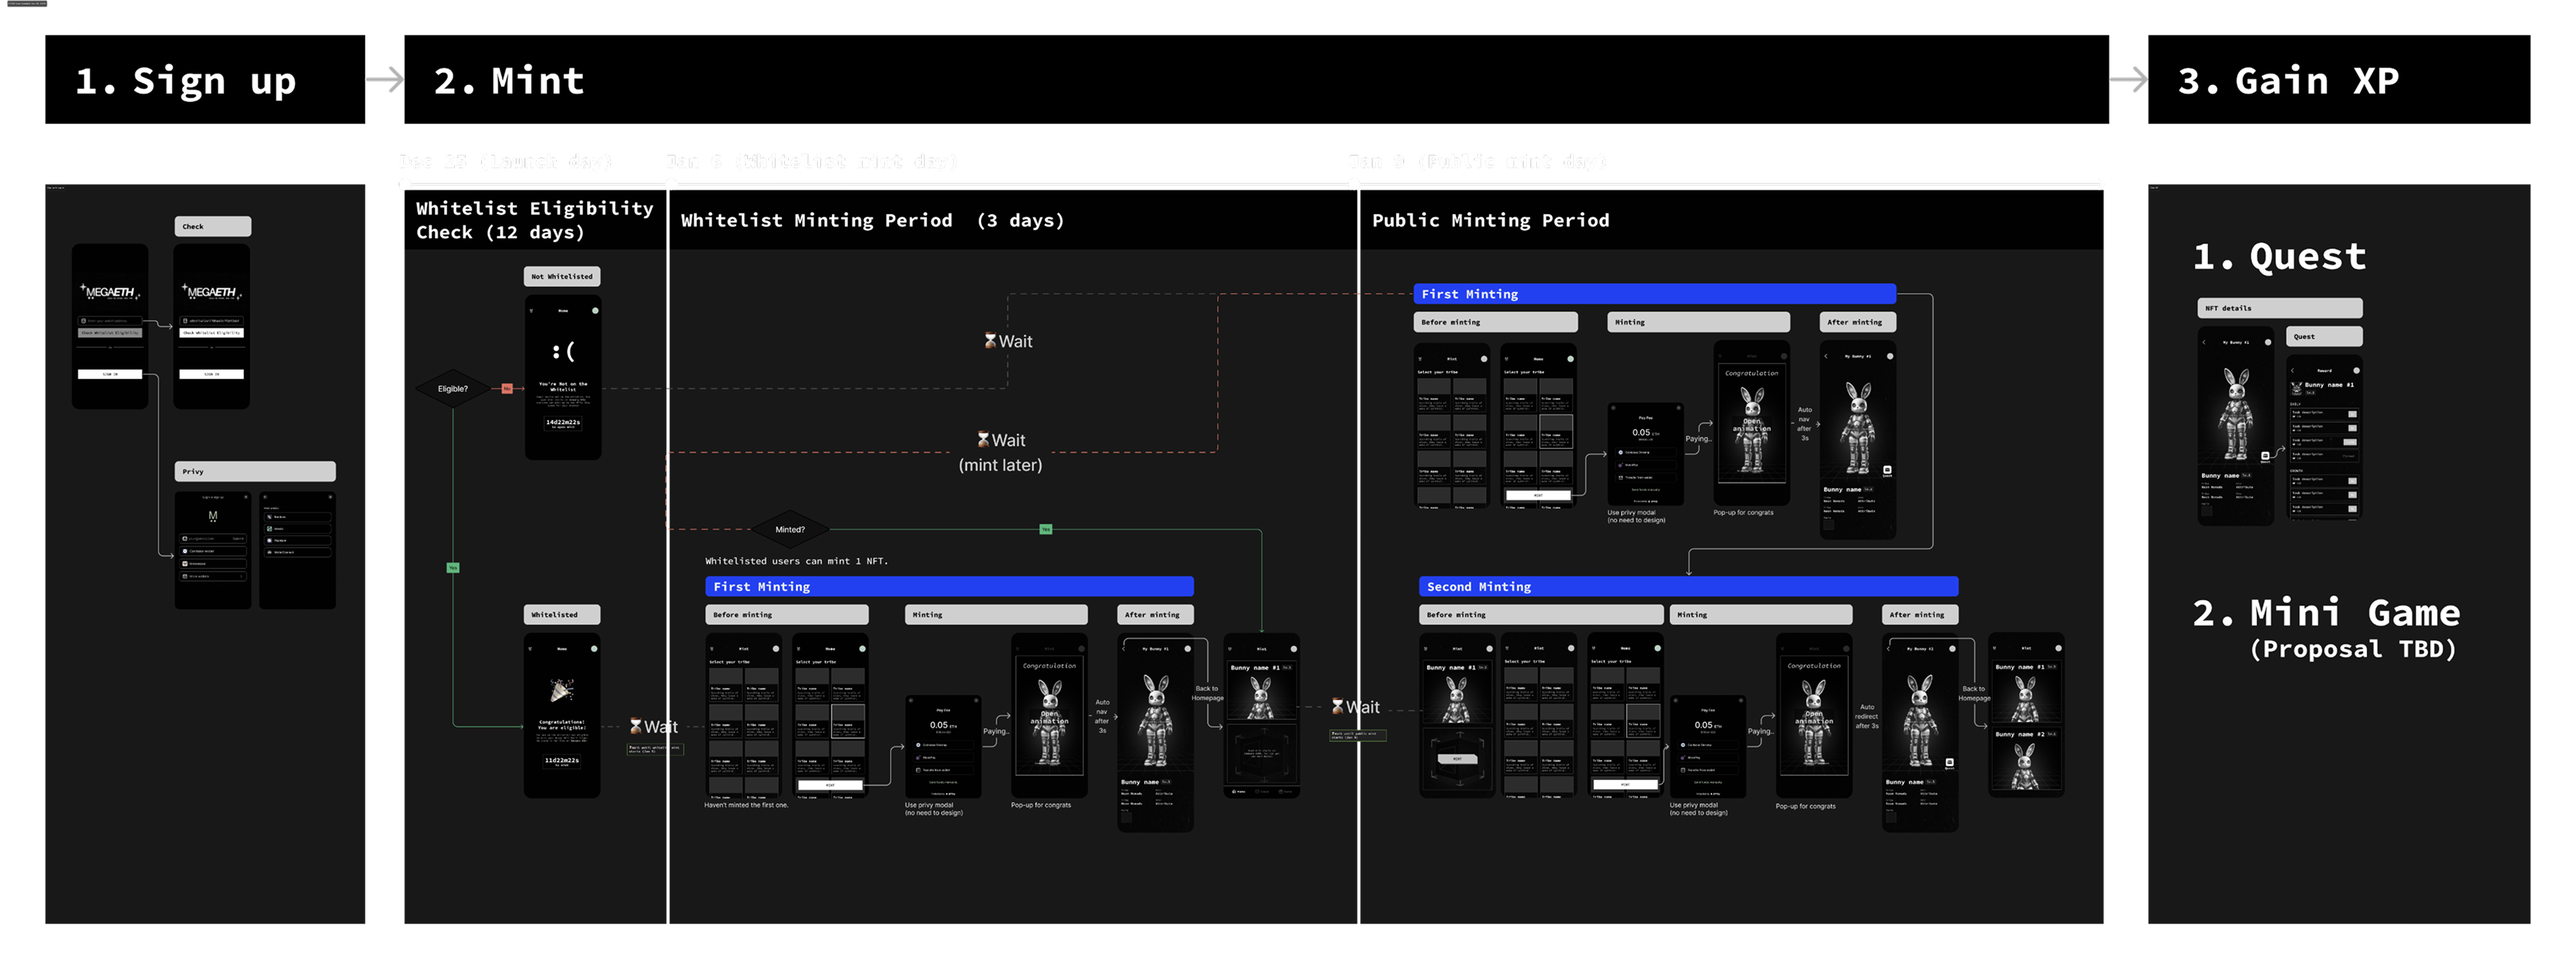
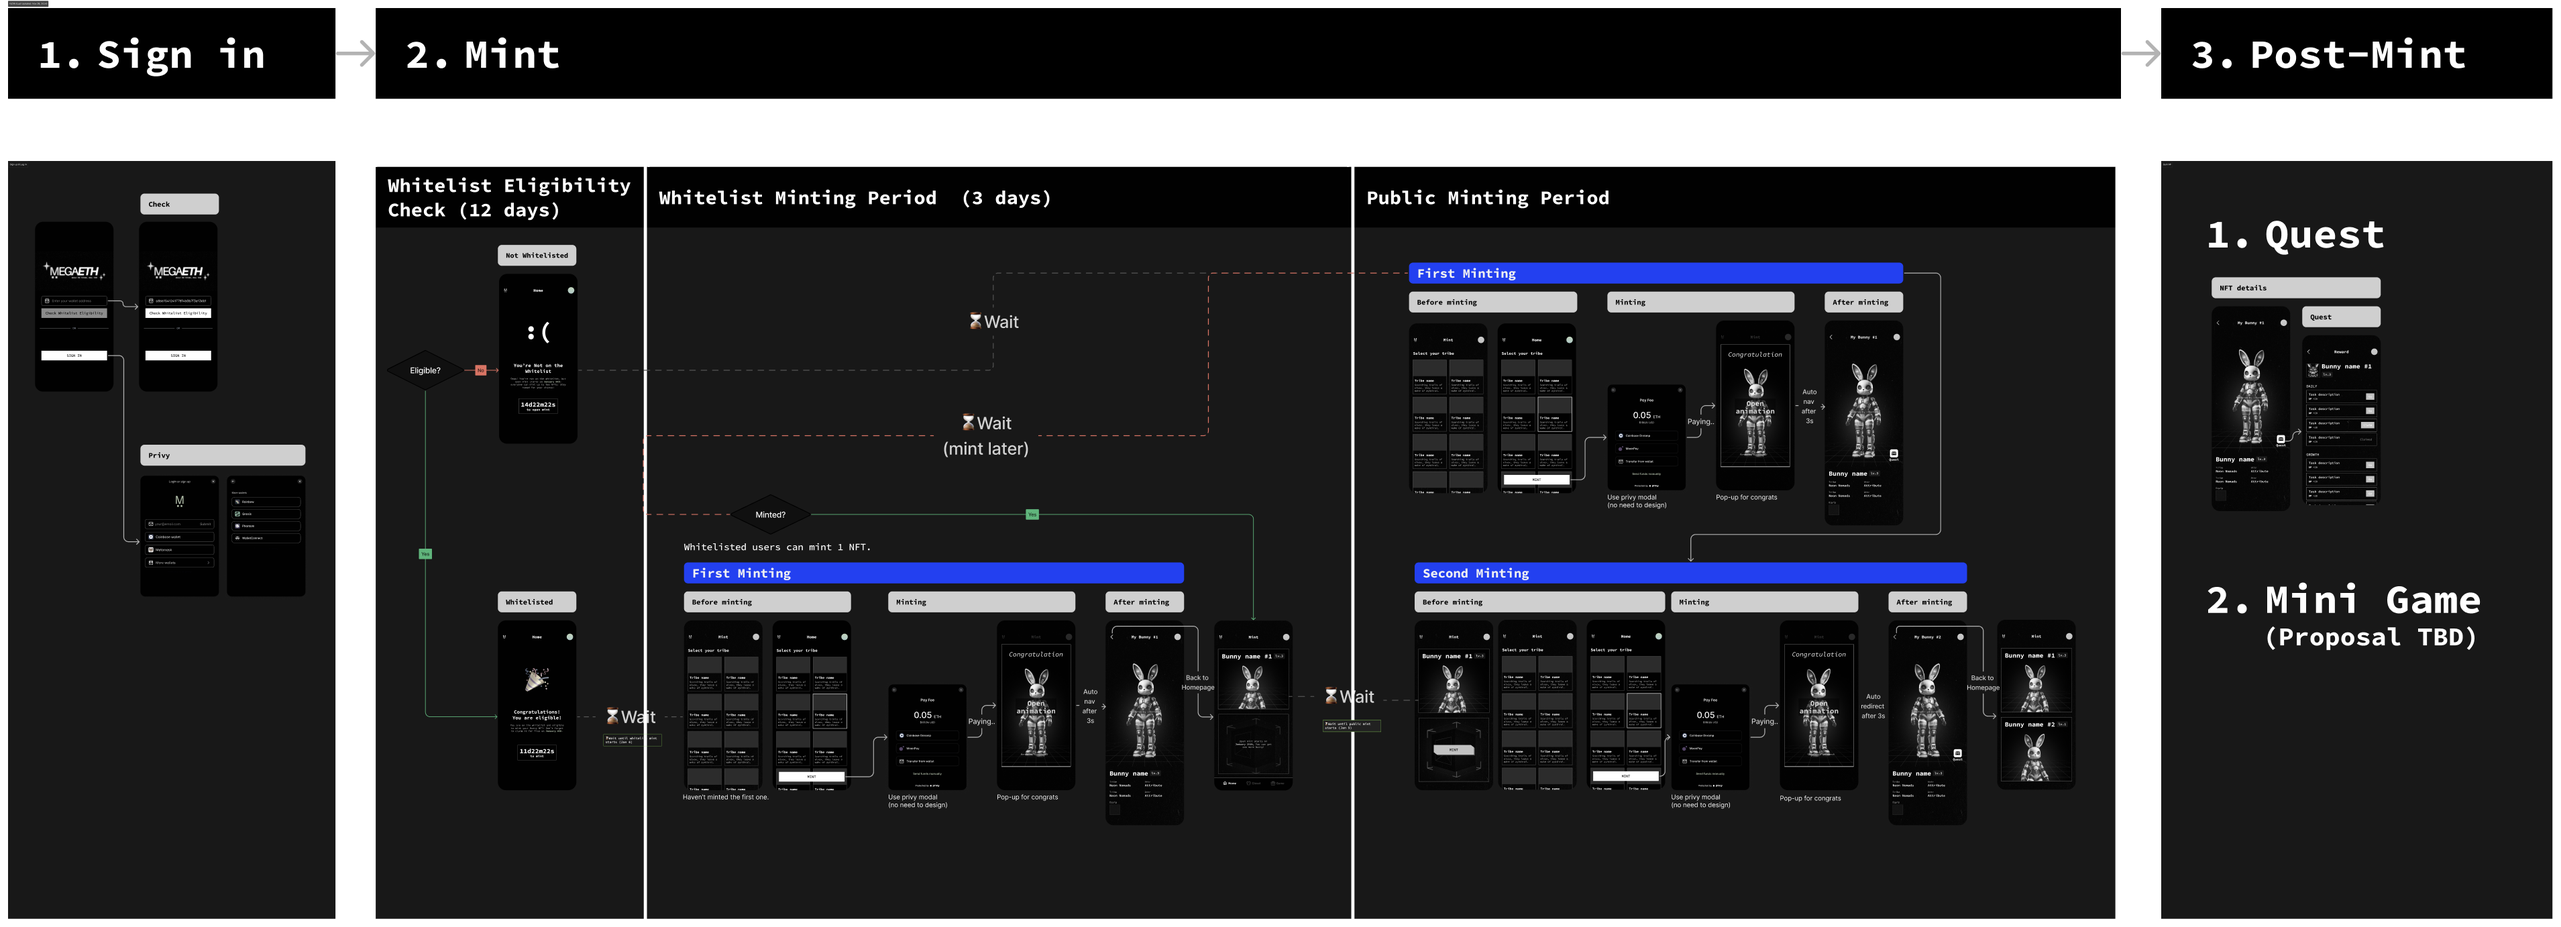
out NFTs

diff --git a/src/pages/Work2.jsx b/src/pages/Work2.jsx
@@ -17,6 +17,25 @@ export default function Work2() {
     "feature",
     "takeaways",
   ];
+
+  const tribeNames = [
+    "Witch",
+    "Innocent",
+    "Boss",
+    "Pilot",
+    "Yob",
+    "Scientist",
+    "Play Boy",
+    "Outlaw",
+    "Mad",
+    "Musician",
+    "Muscular",
+    "Executor",
+    "Soldier",
+    "Femme fatale",
+    "Sage",
+    "Samurai",
+  ];
   return (
     <div className="min-h-screen text-white flex flex-col">
       <SectionNav sections={page2Sections} />
@@ -29,7 +48,7 @@ export default function Work2() {
           <span>Hologram, 2024</span>
           <h1 className="mt-3 text-4xl">NFT Minting Platform</h1>
         </div>
-        <div className="relative w-[620px] h-[646px]">
+        <div className="relative w-full md:w-[620px] h-[646px]">
           {/* 第一張圖片，放在左上角 */}
           <HoverImage
             src="/images/work2/overview/preview1.png"
@@ -105,87 +124,103 @@ export default function Work2() {
       {/* Divider */}
       <div className="w-full lg:border-t border-zinc-800"></div>
       {/* Background Section */}
-      <div
-        id="background"
-        className="w-full md:max-w-6xl mx-auto py-36 md:px-5 px-3"
-      >
-        <TitleSection
-          title="Background"
-          description="A PWA developed in collaboration with the MegaETH team, launching a 10K NFT fluffle (rabbit) collection featuring diverse art variations.
+      <div id="background" className="w-full mx-auto py-36 md:px-5 px-3">
+        <div className="w-full md:max-w-6xl mx-auto">
+          <TitleSection
+            title="Background"
+            description="A PWA developed in collaboration with the MegaETH team, launching a 10K NFT fluffle (rabbit) collection featuring diverse art variations.
 Our art team designed and created the fluffle assets, while I handled the UI/UX design of the PWA and collaborated closely with engineers for implementation."
-          icon="bg"
-        />
-        <div className="max-w-6xl mx-auto border-t border-zinc-800 my-16"></div>
-        <h2 className="text-4xl">What is 10K NFT Project?</h2>
+            icon="bg"
+          />
+          <div className="max-w-6xl mx-auto border-t border-zinc-800 my-16"></div>
+          <h2 className="text-4xl">What is 10K NFT Project?</h2>
 
-        <h2 className="text-3xl mt-14">Key Features</h2>
-        <p className="text-zinc-300 max-w-3xl mt-3">
-          Excitement Factor: Blind-box style minting drives anticipation and
-          engagement. Simplified Process: One-click minting with Gas fee payment
-          for faster transaction
-        </p>
+          <h2 className="text-3xl mt-14">Key Features</h2>
+          <p className="text-zinc-300 max-w-3xl mt-3">
+            Excitement Factor: Blind-box style minting drives anticipation and
+            engagement. Simplified Process: One-click minting with Gas fee
+            payment for faster transaction
+          </p>
 
-        <h2 className="text-3xl mt-14">Market Success Examples</h2>
-        <div className="grid grid-cols-1 md:grid-cols-3 gap-6 max-w-6xl mx-auto mt-5">
-          {/* Card 1:   */}
-          <div className="flex flex-col p-6 gap-4 border border-zinc-700 rounded-2xl">
-            <div className="flex flex-row items-center gap-3">
+          <h2 className="text-3xl mt-14">Market Success Examples</h2>
+          <div className="grid grid-cols-1 md:grid-cols-3 gap-6 max-w-6xl mx-auto mt-5">
+            {/* Card 1:   */}
+            <div className="flex flex-col p-6 gap-4 border border-zinc-700 rounded-2xl">
+              <div className="flex flex-row items-center gap-3">
+                <SmartImage
+                  src="/images/work2/background/BAYC-logo.png"
+                  alt="BAYC Logo"
+                  className="rounded-xl overflow-hidden w-[60px]"
+                />
+                <h3 className="">Bored Ape Yacht Club (BAYC)</h3>
+              </div>
               <SmartImage
-                src="/images/work2/background/BAYC-logo.png"
-                alt="BAYC Logo"
-                className="rounded-xl overflow-hidden w-[60px]"
+                src="/images/work2/background/BAYC-ex.png"
+                alt="BAYC Example"
+                className="rounded-xl overflow-hidden"
               />
-              <h3 className="">Bored Ape Yacht Club (BAYC)</h3>
             </div>
-            <SmartImage
-              src="/images/work2/background/BAYC-ex.png"
-              alt="BAYC Example"
-              className="rounded-xl overflow-hidden"
-            />
+
+            {/* Card 2:   */}
+            <div className="flex flex-col p-6 gap-4 border border-zinc-700 rounded-2xl">
+              <div className="flex flex-row items-center gap-3">
+                <SmartImage
+                  src="/images/work2/background/CryptoPunks-logo.png"
+                  alt="CryptoPunks Logo"
+                  className="rounded-xl overflow-hidden w-[60px]"
+                />
+                <h3 className="">CryptoPunks</h3>
+              </div>
+              <SmartImage
+                src="/images/work2/background/CryptoPunks-ex.png"
+                alt="CryptoPunks Example"
+                className="rounded-xl overflow-hidden"
+              />
+            </div>
+            {/* Card 3:   */}
+            <div className="flex flex-col p-6 gap-4 border border-zinc-700 rounded-2xl">
+              <div className="flex flex-row items-center gap-3">
+                <SmartImage
+                  src="/images/work2/background/coolcats-logo.png"
+                  alt="Cool Cats Logo"
+                  className="rounded-xl overflow-hidden w-[60px]"
+                />
+                <h3 className="">Cool Cats</h3>
+              </div>
+              <SmartImage
+                src="/images/work2/background/coolcats-ex.png"
+                alt="Cool Cats Example"
+                className="rounded-xl overflow-hidden"
+              />
+            </div>
           </div>
 
-          {/* Card 2:   */}
-          <div className="flex flex-col p-6 gap-4 border border-zinc-700 rounded-2xl">
-            <div className="flex flex-row items-center gap-3">
-              <SmartImage
-                src="/images/work2/background/CryptoPunks-logo.png"
-                alt="CryptoPunks Logo"
-                className="rounded-xl overflow-hidden w-[60px]"
-              />
-              <h3 className="">CryptoPunks</h3>
-            </div>
-            <SmartImage
-              src="/images/work2/background/CryptoPunks-ex.png"
-              alt="CryptoPunks Example"
-              className="rounded-xl overflow-hidden"
-            />
-          </div>
-          {/* Card 3:   */}
-          <div className="flex flex-col p-6 gap-4 border border-zinc-700 rounded-2xl">
-            <div className="flex flex-row items-center gap-3">
-              <SmartImage
-                src="/images/work2/background/coolcats-logo.png"
-                alt="Cool Cats Logo"
-                className="rounded-xl overflow-hidden w-[60px]"
-              />
-              <h3 className="">Cool Cats</h3>
-            </div>
-            <SmartImage
-              src="/images/work2/background/coolcats-ex.png"
-              alt="Cool Cats Example"
-              className="rounded-xl overflow-hidden"
-            />
-          </div>
+          <div className="max-w-6xl mx-auto border-t border-zinc-800 my-16"></div>
+          <h2 className="text-4xl">Our NFTs</h2>
+          <p className="text-zinc-300 max-w-3xl mt-3">
+            Our art team created 16 tribes, each with 157 unique variations.
+          </p>
         </div>
-
-        <div className="max-w-6xl mx-auto border-t border-zinc-800 my-16"></div>
-        <h2 className="text-4xl">Our NFTs</h2>
-        <p className="text-zinc-300 max-w-3xl mt-3">..</p>
-        <SmartImage
-          src="/images/work2/background/outNFTs.png"
-          alt="Our NFTs"
-          className=""
-        />
+        <div className="grid xl:grid-cols-8 lg:grid-cols-6 md:grid-cols-4 sm:grid-cols-2 gap-4 1max-w-[1600px] 1mx-auto">
+          {tribeNames.map((name, index) => (
+            <div key={index} className="relative mx-auto pr-[64px]">
+              {/* First image */}
+              <HoverImage
+                src={`/images/work2/background/Bunny-${index + 1}A.png`}
+                alt={`${name} A`}
+                className="block w-[100px] "
+              />
+              {/* Second image: using absolute positioning to stagger it */}
+              <HoverImage
+                src={`/images/work2/background/Bunny-${index + 1}B.png`}
+                alt={`${name} B`}
+                className="absolute w-[100px] top-[24px] left-[64px]"
+              />
+              {/* Display the name */}
+              <h3 className="text-center pr-2">{name}</h3>
+            </div>
+          ))}
+        </div>
       </div>
 
       {/* Divider */}
@@ -219,7 +254,7 @@ Our art team designed and created the fluffle assets, while I handled the UI/UX 
           <img
             src="/images/work2/wireframe.png"
             alt="wireframe"
-            className="h-[95vh] w-auto max-w-none m-[-20px]"
+            className="h-[95vh] w-auto max-w-none m-4"
           />
         </div>
       </div>
@@ -274,10 +309,10 @@ Our art team designed and created the fluffle assets, while I handled the UI/UX 
           <TitleSection title="Key Features" description="" icon="highlight" />
         </div>
 
-        <div className="md:max-w-2xl w-full space-y-3 text-center mx-auto">
+        <div className="md:max-w-2xl w-full space-y-3 text-center mx-auto mt-12">
           <span className="uppercase text-2xl">1</span>
           <h2 className="text-5xl md:text-6xl">
-            Sign up & Whitelist Eligibility Check
+            Sign in & Whitelist Eligibility Check
           </h2>
           <p className=" text-zinc-300">====</p>
         </div>
@@ -373,7 +408,15 @@ Our art team designed and created the fluffle assets, while I handled the UI/UX 
               </tbody>
             </table>
           </div>
-          {/* 2. Minting */}
+
+          {/* 2 Minting */}
+          <div className="md:max-w-2xl w-full space-y-3 text-center mx-auto mt-32">
+            <span className="uppercase text-2xl">2</span>
+            <h2 className="text-5xl md:text-6xl">Mint</h2>
+            <p className=" text-zinc-300"></p>
+          </div>
+
+          {/* 2.1 Minting */}
           <div className="mt-16 flex flex-col md:flex-row items-center justify-center gap-12 py-16 px-4 text-white">
             {/* Left - Image */}
             <div className="order-2 md:order-1 w-full md:w-auto text-center">
@@ -385,15 +428,21 @@ Our art team designed and created the fluffle assets, while I handled the UI/UX 
 
             {/* Right - Text */}
             <div className="order-1 md:order-2 text-center md:text-left">
-              <p className="text-xl md:text-2xl mb-2">2.</p>
-              <h2 className="text-4xl md:text-5xl font-heading">Minting</h2>
+              {/* <p className="text-xl md:text-2xl mb-2">2.</p> */}
+              <h2 className="text-4xl md:text-5xl font-heading">Mint</h2>
             </div>
           </div>
-          {/* 3. Closet */}
+          {/* 2 Post-Mint */}
+          <div className="md:max-w-2xl w-full space-y-3 text-center mx-auto mt-32">
+            <span className="uppercase text-2xl">3</span>
+            <h2 className="text-5xl md:text-6xl">Post-Mint</h2>
+            <p className=" text-zinc-300"></p>
+          </div>
+          {/* 3.1 Closet */}
           <div className="mt-16 flex flex-col md:flex-row items-center justify-center gap-12 py-16 px-4 text-white">
             {/*  - Text */}
             <div className="text-center md:text-left">
-              <p className="text-xl md:text-2xl mb-2">3.</p>
+              {/* <p className="text-xl md:text-2xl mb-2">3.</p> */}
               <h2 className="text-4xl md:text-5xl font-heading">Closet</h2>
             </div>
 
@@ -405,7 +454,7 @@ Our art team designed and created the fluffle assets, while I handled the UI/UX 
               />
             </div>
           </div>
-          {/* 4. Chat */}
+          {/* 3.2 Chat */}
           <div className="mt-16 flex flex-col md:flex-row items-center justify-center gap-12 py-16 px-4 text-white">
             {/* Left - Image */}
             <div className="order-2 md:order-1 w-full md:w-auto text-center">
@@ -417,15 +466,15 @@ Our art team designed and created the fluffle assets, while I handled the UI/UX 
 
             {/* Right - Text */}
             <div className="order-1 md:order-2 text-center md:text-left">
-              <p className="text-xl md:text-2xl mb-2">4.</p>
+              {/* <p className="text-xl md:text-2xl mb-2">4.</p> */}
               <h2 className="text-4xl md:text-5xl font-heading">Chat</h2>
             </div>
           </div>
-          {/* 5. Profile */}
+          {/* 3.3 Profile */}
           <div className="mt-16 flex flex-col md:flex-row items-center justify-center gap-12 py-16 px-4 text-white">
             {/*  - Text */}
             <div className="text-center md:text-left">
-              <p className="text-xl md:text-2xl mb-2">5.</p>
+              {/* <p className="text-xl md:text-2xl mb-2">5.</p> */}
               <h2 className="text-4xl md:text-5xl font-heading">Profile</h2>
             </div>
 

diff --git a/src/components/HoverImage.jsx b/src/components/HoverImage.jsx
@@ -8,7 +8,7 @@ const HoverImage = ({ src, alt, className }) => {
       tiltMaxAngleX={10} // X 軸最大傾斜角度，可依需求調整
       tiltMaxAngleY={10} // Y 軸最大傾斜角度
       perspective={1000} // 視角距離
-      //   scale={1.05} // 應用 hover 時的放大倍率
+      scale={1.02} // 應用 hover 時的放大倍率
       transitionSpeed={400} // 過渡速度（毫秒）
       gyroscope={true} // 可啟用裝置感應（如果支援）
       className={className} // 可傳入額外 CSS class
